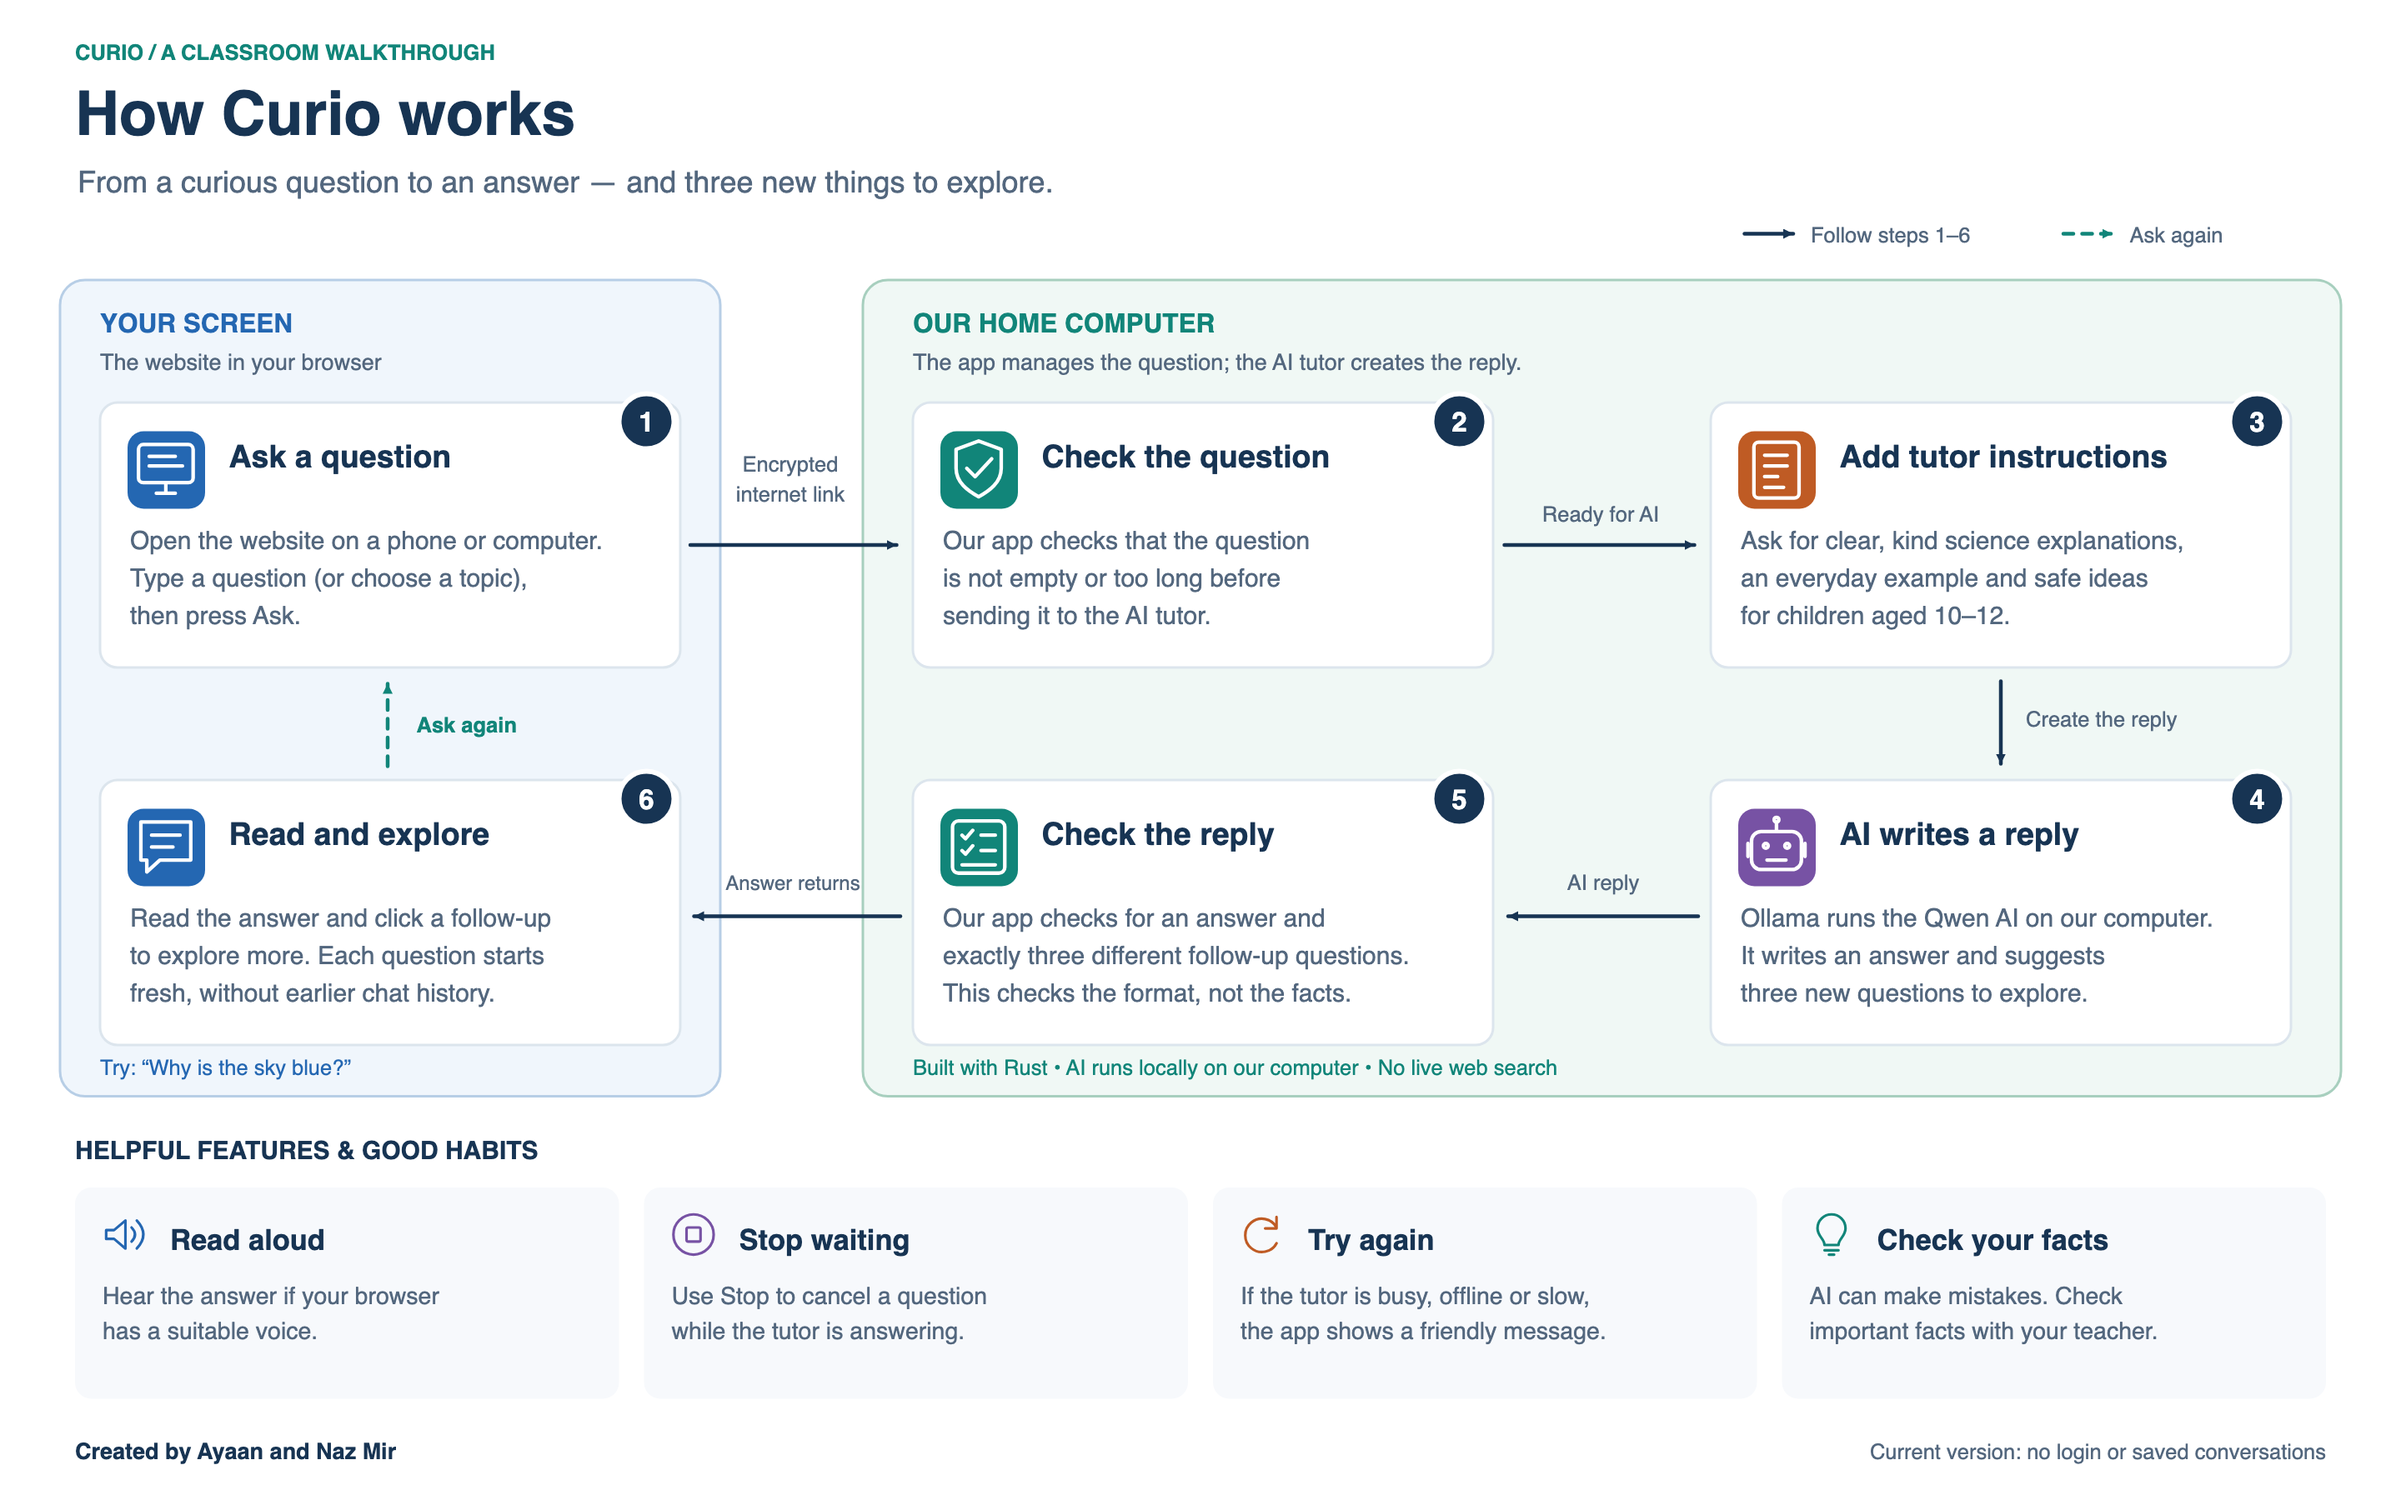
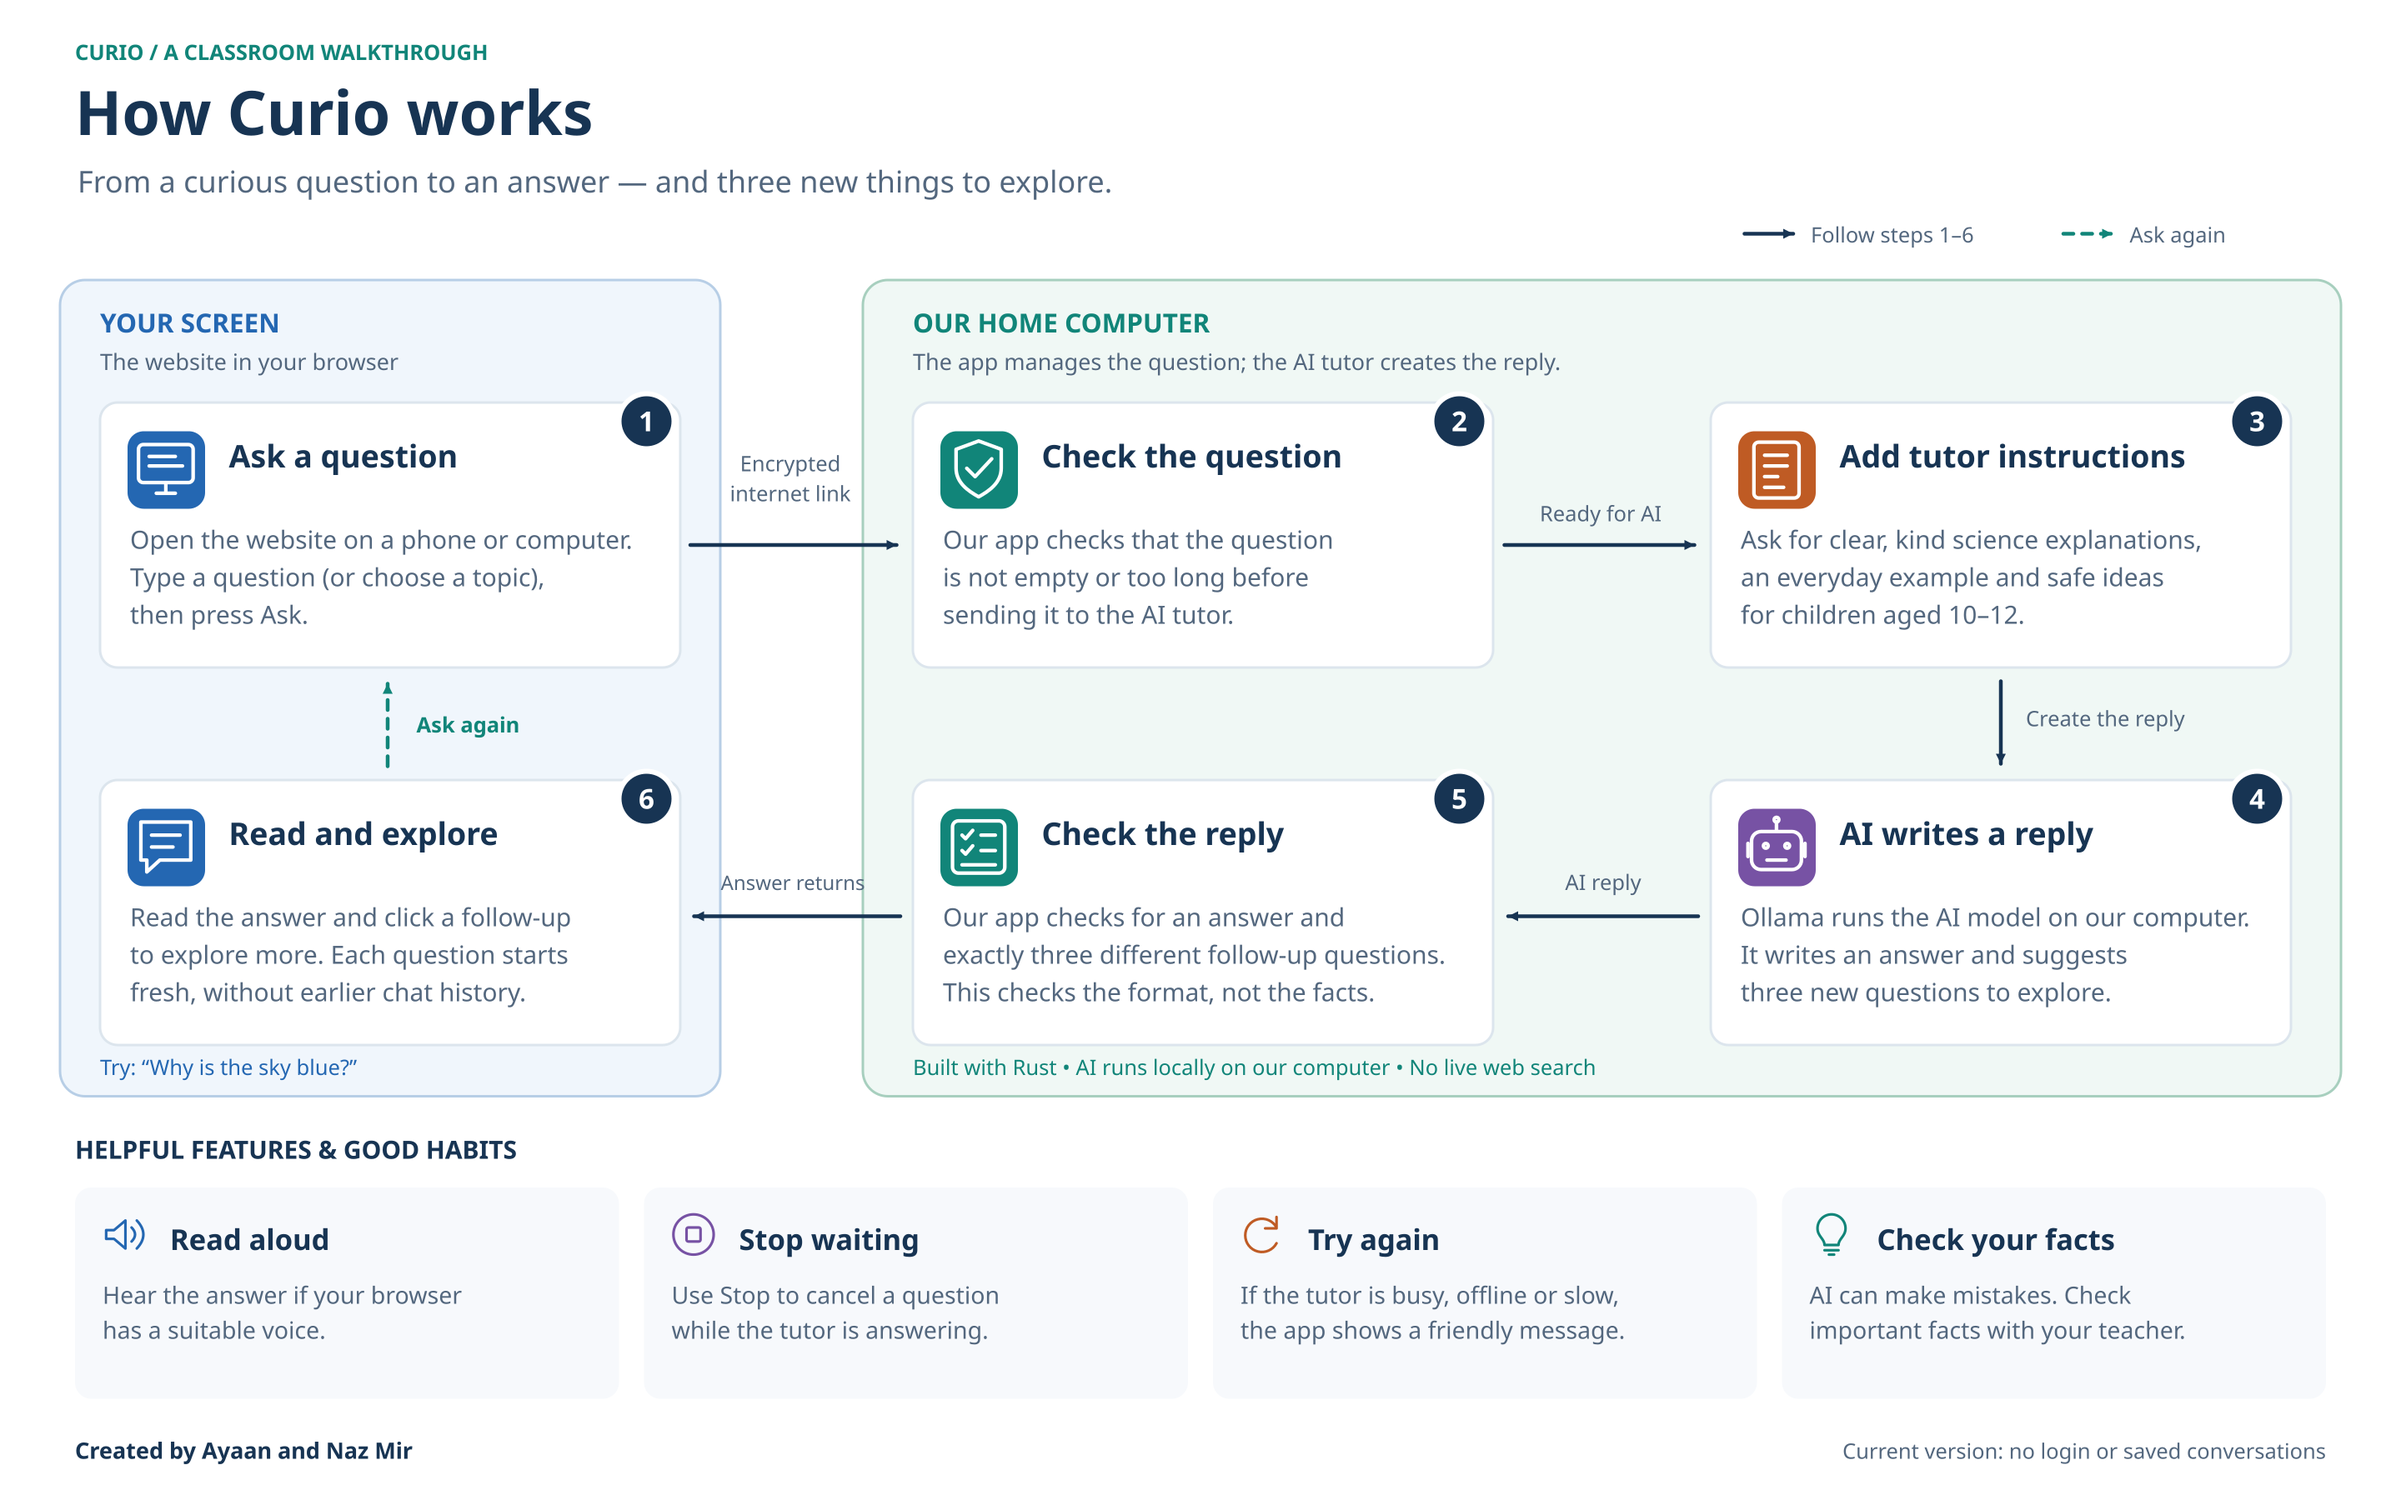
Describe the tutor's AI model generically instead of as Qwen
The server now runs gemma4:12b, so the web tool description, classroom
diagram and speaking notes, iOS README and HTTP test no longer name Qwen
for the server. The notes name Gemma as the current model; the iOS offline
fallback, which really is Qwen3 4B, keeps its model names.

diff --git a/src/client/app.ts b/src/client/app.ts
@@ -1301,7 +1301,7 @@ startPixelField();
 const toolsLifecycle = new AbortController();
 if (document.modelContext?.registerTool) {
   const scienceTools: ScienceTool[] = [
-    { name: 'ask_science_question', title: 'Ask a science question', description: 'Send a science question to the private Qwen tutor and show the answer on this page. This transmits the question to the configured tutor computer.', inputSchema: { type: 'object', properties: { question: { type: 'string', minLength: 1, maxLength: 2000 } }, required: ['question'], additionalProperties: false }, annotations: { readOnlyHint: false, untrustedContentHint: true }, execute: async (input) => ask(input?.question) },
+    { name: 'ask_science_question', title: 'Ask a science question', description: 'Send a science question to the private science tutor and show the answer on this page. This transmits the question to the configured tutor computer.', inputSchema: { type: 'object', properties: { question: { type: 'string', minLength: 1, maxLength: 2000 } }, required: ['question'], additionalProperties: false }, annotations: { readOnlyHint: false, untrustedContentHint: true }, execute: async (input) => ask(input?.question) },
     { name: 'read_science_answer', title: 'Read the current science answer', description: 'Return the question and answer currently displayed, without making another model request.', inputSchema: { type: 'object', properties: {}, additionalProperties: false }, annotations: { readOnlyHint: true, untrustedContentHint: true }, execute: async () => { const last = steps[steps.length - 1]; return { question: last?.question ?? '', answer: last?.answer ?? '', busy: !!controller }; } }
   ];
   for (const tool of scienceTools) { try { Promise.resolve(document.modelContext.registerTool(tool, { signal: toolsLifecycle.signal })).catch(() => {}); } catch {} }

diff --git a/test/server.test.ts b/test/server.test.ts
@@ -32,7 +32,7 @@ async function fixture(t: TestContext, handler: http.RequestListener, options: A
   t.after(() => close(upstream));
   const child = spawn(process.env.RUST_SERVER_BIN || 'backend/target/debug/curio-server', [], {
     env: { ...process.env, HOST: '127.0.0.1', PORT: '0', ASSET_ROOT: options.root || process.cwd(),
-      OLLAMA_BASE_URL: options.upstream || base, OLLAMA_MODEL: options.model || 'qwen3:8b',
+      OLLAMA_BASE_URL: options.upstream || base, OLLAMA_MODEL: options.model || 'gemma4:12b',
       PUBLIC_ORIGIN: options.publicOrigin || '', OLLAMA_TIMEOUT_MS: String(options.timeoutMs ?? 120000) },
     stdio: ['ignore', 'pipe', 'pipe']
   });
@@ -78,7 +78,7 @@ test('compiled server serves browser assets from the deployment layout', async t
   assert.deepEqual(await health.json(), { status: 'ok' });
 });
 
-test('question becomes a bounded Qwen request and only final content returns', async t => {
+test('question becomes a bounded Ollama request and only final content returns', async t => {
   let payload: {
     format: { properties: { followUps: { minItems: number; maxItems: number } } };
     model: string;
@@ -104,7 +104,7 @@ test('question becomes a bounded Qwen request and only final content returns', a
   assert.ok(payload);
   assert.equal(payload.format.properties.followUps.minItems, 3);
   assert.equal(payload.format.properties.followUps.maxItems, 3);
-  assert.equal(payload.model, 'qwen3:8b');
+  assert.equal(payload.model, 'gemma4:12b');
   assert.equal(payload.stream, false); assert.equal(payload.think, false);
   assert.equal(payload.messages[0].role, 'system');
   const prompt = await readFile('backend/src/tutor.txt', 'utf8');

diff --git a/docs/diagrams/README.md b/docs/diagrams/README.md
@@ -24,8 +24,9 @@ home computer.”
 3. **Add tutor instructions.** “We give the AI instructions to explain science
    kindly, use an everyday example, and suggest safe ideas for children. These
    instructions guide its answer.”
-4. **AI writes a reply.** “The AI is called Qwen. A program called Ollama runs it
-   on our home computer. It uses what it learned during training to create an
+4. **AI writes a reply.** “The AI is an existing open model; right now we use Gemma,
+   made by Google. A program called Ollama runs it on our home computer, and we
+   can switch to a different model without changing the app. It uses what it learned during training to create an
    answer and three follow-up questions. Our app does not search the web for
    each answer.”
 5. **Check the reply.** “Our app checks that an answer and three different
@@ -42,8 +43,8 @@ this version.”
 
 ## Questions the teacher might ask
 
-- **Did you train the AI?** No. Qwen is an existing model developed by Alibaba
-  Cloud. Ayaan and Naz Mir created this app and its tutor instructions.
+- **Did you train the AI?** No. We use an existing open model, currently Gemma
+  by Google. Ayaan and Naz Mir created this app and its tutor instructions.
 - **Does the AI run on the phone?** No. The phone shows the website; the home
   computer runs the app and AI tutor.
 - **Is the AI always correct or safe?** No. Instructions guide it, but they do

diff --git a/ios/README.md b/ios/README.md
@@ -95,8 +95,8 @@ xcrun devicectl device install app --device <device-id> \
 ## Put the model on the iPad
 
 Recommended: `Qwen3-4B-Instruct-2507-Q4_K_M.gguf` (about 2.5 GB), a smaller
-non-thinking member of the same Qwen3 family as the server's `qwen3:8b`.
-Answers are a little simpler than the 8B model's. Choose one method:
+non-thinking Qwen3 model for offline answers (the server uses `gemma4:12b`).
+Answers are a little simpler than the server's. Choose one method:
 
 1. **Download in the app**: Settings → Advanced → *Download recommended model* (needs
    internet once).
